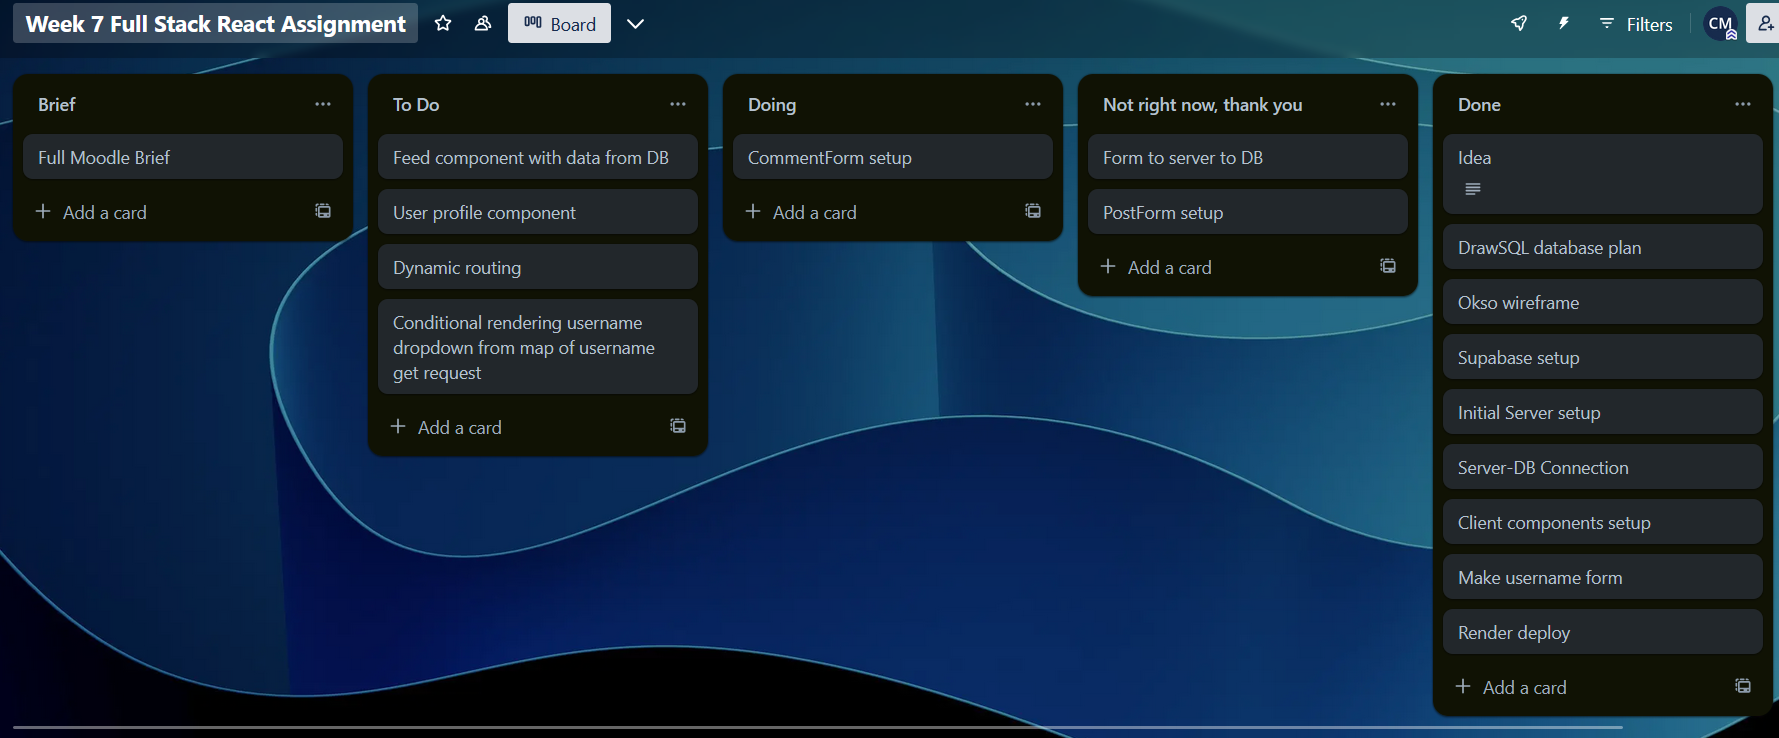
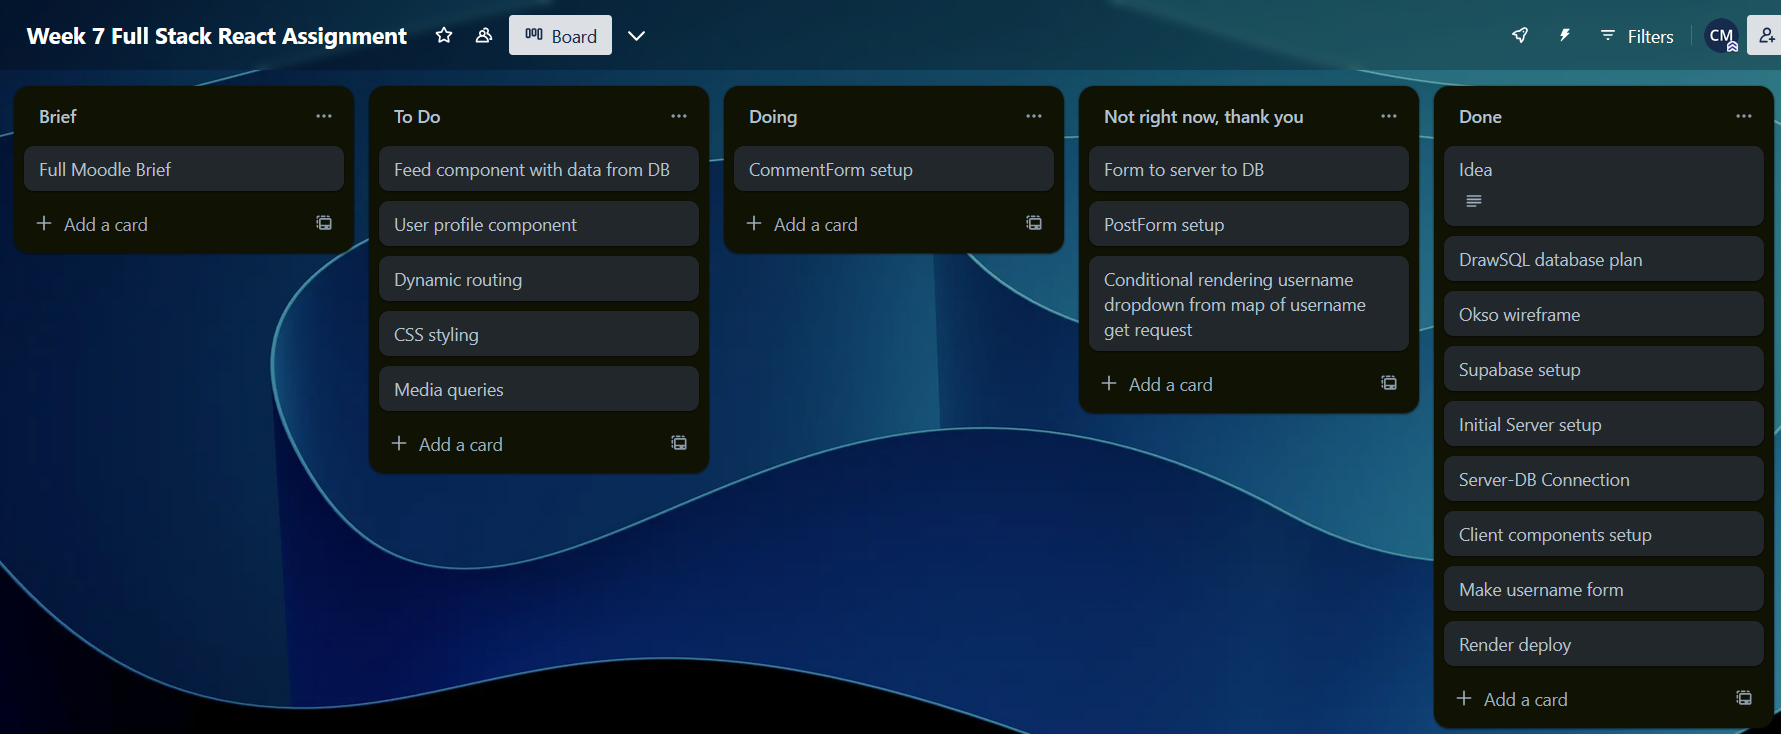
wrote reflection in readme, added screenshots

Changed region(s): [[0.0, 0.0, 1.0, 1.0], [0.3401, 0.6894, 0.371, 0.7193]]

diff --git a/README.md b/README.md
@@ -2,6 +2,37 @@
 
 ## reflection
 
+I've had a bit of a nightmare with this assignment and it isn't even finished yet. I've done parts of most of the requirements for the assignment:
+
+- I've got a react client with the right components but currently most of them are full of placeholders without the correct functionality
+- I've made an express server with some GET and POST endpoints connected to my database
+- I've made multiple react forms for users to create an account (this one works), create posts (this one is the **major** problem), and comment on other posts (this one can't really work until the posts one works)
+- I've created multiple pages using react router with natural links between them, but haven't done any dynamic routing as that was planned for the user profiles which I haven't done yet
+- I've designed my database schema and seeded the database with some example data (2 users, 1 post, 4 comments)
+- I haven't yet used SQL to retrieve posts and comments
+- I've used map, but so far only to generate options in a select input in my PostForm
+
+As you can probably tell, I've encountered several problems while working on this. The first issue was more of a worry that I realised when making my wireframe as the way I planned to implement usernames (the only way I could think of was by including it as another input in the PostForm like in the week 4 assignment) would have left each username paired up to multiple ids. The next problem came when setting up my database and using test SELECT queries as I was unsure at first how to use JOIN on three tables, but the solution turned out to be pretty easy.
+
+### The main issue
+
+My next issue came when making my PostForm as I was unsure how I could send the inputs of my PostForm to two tables at once, as the username had to go to the users table while the rest would go to the posts table but would have to include the user_id from the username that had just been submitted. Manny suggested having 3 separate fetches from the post form to submit the username, fetch the id matching that username, and then add that id to the formValues object to be submitted. He also suggested a stretch goal of having a dropdown to allow users to select from usernames that had already been created. I tried really hard to get this working because it would've removed the aforementioned issue of username and id not always matching up, but I probably ended up derailing the rest of the project by focusing on it too much and not giving up when it clearly wasn't working.
+
+The first problem I ran into was the whole app suddenly not rendering after I had fetched from the /userquery endpoint to create an array of usernames that I could map through to create a new option in the dropdown input for each. I had this same issue in week 6 and it had been because I had fetched into a .js file in my lib folder then tried importing the result into a component, and used the same solution this time of bringing the fetch function into the component itself to avoid importing the function or the result. This fixed the problem, but I still had some syntax errors that took a while to fix but weren't too hard.
+
+The next problem was more subtle but ruined the planned functionality of the form. I added a console.log to the submit handler function for the PostForm so I could check the submitted data, but I noticed that the user_id field was always an empty string instead of the id that matched the username in the selected dropdown option. I guessed that this was probably a fetch issue because the dropdown was always empty for a while after loading the page so I presumed that there was some difference between rendering the names of the options (which appeared eventually) and the values of the options (which didn't appear at all). I did some googling about conditional rendering not awaiting the result of a fetch, but the solution I found was to use useState and useEffect which I was already using because I had scrapped my initial function and reworked the one I used last week that used useEffect and worked successfully. I next looked at using async and await with an array.map and borrowed some syntax from a stackoverflow thread though I didn't fully understand it so this could have been an actual working solution that I overlooked. I ended up getting an error from trying that method (the error said &quot;Warning: Functions are not valid as a React child. This may happen if you return a Component instead of <Component /> from render&quot;) so I did some more googling and found some solutions that I couldn't make sense of.
+
+I then called it a day for Saturday as I've usually been able to come back on Sunday morning and fix Saturday's code with a new solution I've thought of (or at least a better description of the problem that I can google to find a solution), but instead I had a bit of a meltdown on Sunday and couldn't get very much done. The only thing I did spot was that I'd completely forgotten to include onChange in the select input, and I was convinced that this would solve all of my problems and let me move on to the rest of the app but surprisingly it didn't. I went back and tried the previous solutions again with the onChange included, but this didn't work either. I did some more googling about the change event listener and onChange working with a select input, but all I could find was that they should work together fine. Basically I still don't know why it isn't working, and I've wasted a lot of time stressing about it instead of working on the rest of my code.
+
+The two solutions I've been able to think of now after calming down a bit are:
+
+- Use Manny's suggestion of having 3 separate fetches from the post form to submit the username, fetch the id matching that username, and then add that id to the formValues object to be submitted
+- Stick with the dropdown/select option but remove the UserForm and instead have an array of pre-made usernames that can be mapped through to render the dropdown options like I was doing but without needing a fetch (in hindsight, I should have done this hours ago if I had thought of it so that I could test if it really was an async/await issue)
+
+I think what I should do next is to delete all the database tables and remake them with a more limited version that ditches the users table and user_id to just have username as part of the PostForm (like in week 4) then have the JOIN be between posts and comments with a 1:many relationship. I could still implement dynamic routing this way if I make it so that the feed only shows posts without comments, and the user needs to click on the post to view comments.
+
+Overall, it hasn't gone well but I hope I'll earn at least half a mark with a nice detailed reflection.
+
 ## sources
 
 - Joining more than two tables in SQL query - https://learnsql.com/blog/how-to-join-3-tables-or-more-in-sql/
@@ -9,3 +40,9 @@
 - Using async await with array.map (as a possible solution to the conditional rendering and fetch issue) - https://stackoverflow.com/questions/40140149/use-async-await-with-array-map
 - Function not valid as a react child (trying to fix an error I was getting after trying the previous method) - https://stackoverflow.com/questions/51626011/why-am-i-getting-warning-functions-are-not-valid-as-a-react-child
 - Getting onChange to work with a dropdown - https://stackoverflow.com/questions/5024056/how-to-pass-parameters-on-onchange-of-html-select
+
+## screenshots
+
+Wireframe: ![Wireframe for a website displaying a feed that shows posts and comments](./screenshots/okso_pic_media.png)
+Database schema in DrawSQL: ![Database schema with tables called 'users', 'posts', and 'comments' joined with one to many relationships](./screenshots/week7_drawSQL.png)
+Trello: ![Trello board showing the tasks I have yet to do, am currently doing, have put on hold because of a problem, or have finished](./screenshots/week7_trello.png)
